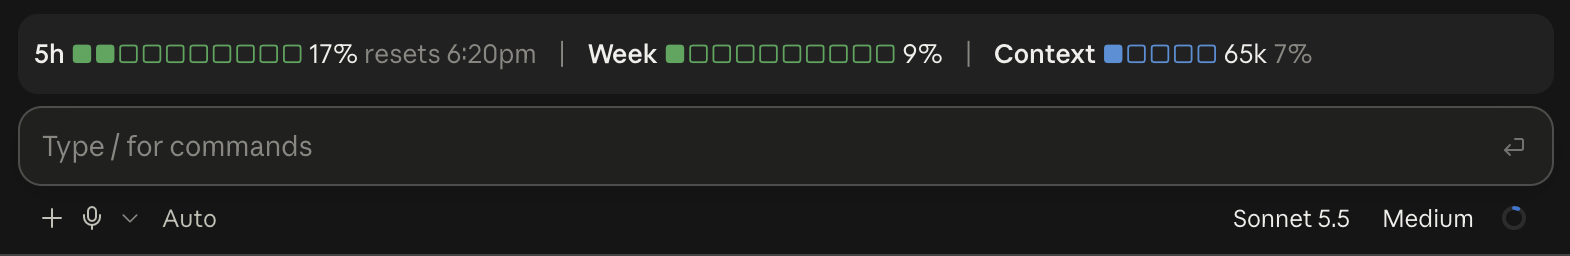
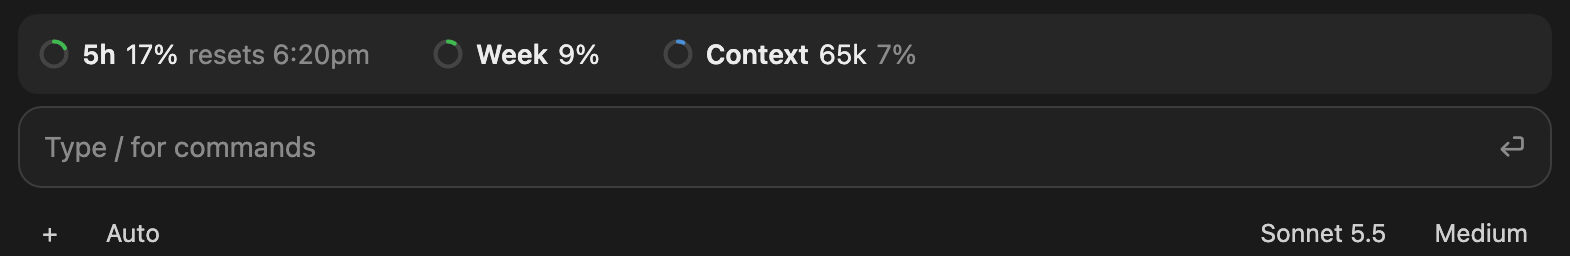
Update README and screenshots for the ring design
Describe how the ring is drawn per surface, fix the example glyph, and
replace the square-bar screenshots with mockups rendered from ringSvg.

diff --git a/README.md b/README.md
@@ -1,18 +1,26 @@
 # usage-tracker
 
-A Claude Code mod that shows your plan usage and context window in a row above the prompt:
+A Claude Code mod that shows your plan usage and context window as a row of small rings above the prompt:
 
 ```
-◔ 5h 4% resets 3:40pm      ◔ Week 18%      ◑ Context 68k 34%
+◔ 5h 4% resets 3:40pm      ◔ Week 18%      ◔ Context 68k 34%
 ```
-![App Screenshot](screenshot.png)
-![App Screenshot 2](screenshot2.png)
+![Mockup of the row in the Claude desktop app](screenshot.png)
+![Mockup with the context ring turned yellow past 200k tokens](screenshot2.png)
+
+*The images are mockups: the rings are drawn by the mod's own `ringSvg` code, set in a page styled like the desktop app's prompt.*
 
 - **5h** – the 5-hour rate-limit window, with the time it resets.
 - **Week** – the weekly rate-limit window.
-- **Context** – tokens in this session's context window. The circle is blue and turns yellow once the context passes 200k tokens.
+- **Context** – tokens in this session's context window, then the percentage of the window used. The ring is blue and turns yellow once the context passes 200k tokens.
 
-The 5h and Week circles are green below 50%, yellow from 50% and red from 80%. Any usage above 0% shows at least a sliver of the ring. The ring is an SVG in the Claude app and an inline image in terminals that support the kitty graphics protocol (kitty, Ghostty); other terminals show a pie glyph (◔ ◑ ◕) instead.
+Each ring fills clockwise from the top. The 5h and Week rings are green below 50%, yellow from 50% and red from 80%. Any usage above 0% shows at least a sliver of the ring.
+
+How the ring is drawn depends on where Claude Code runs:
+
+- **Claude desktop and mobile apps:** an SVG ring.
+- **Terminals with the kitty graphics protocol** (kitty, Ghostty): an inline image of the same ring.
+- **Other terminals:** a pie glyph in quarter steps (○ ◔ ◑ ◕ ●).
 
 The rate-limit figures come from Claude Code itself and refresh after each response, so they appear only on a Claude subscription and only once the session has had its first reply.
 
